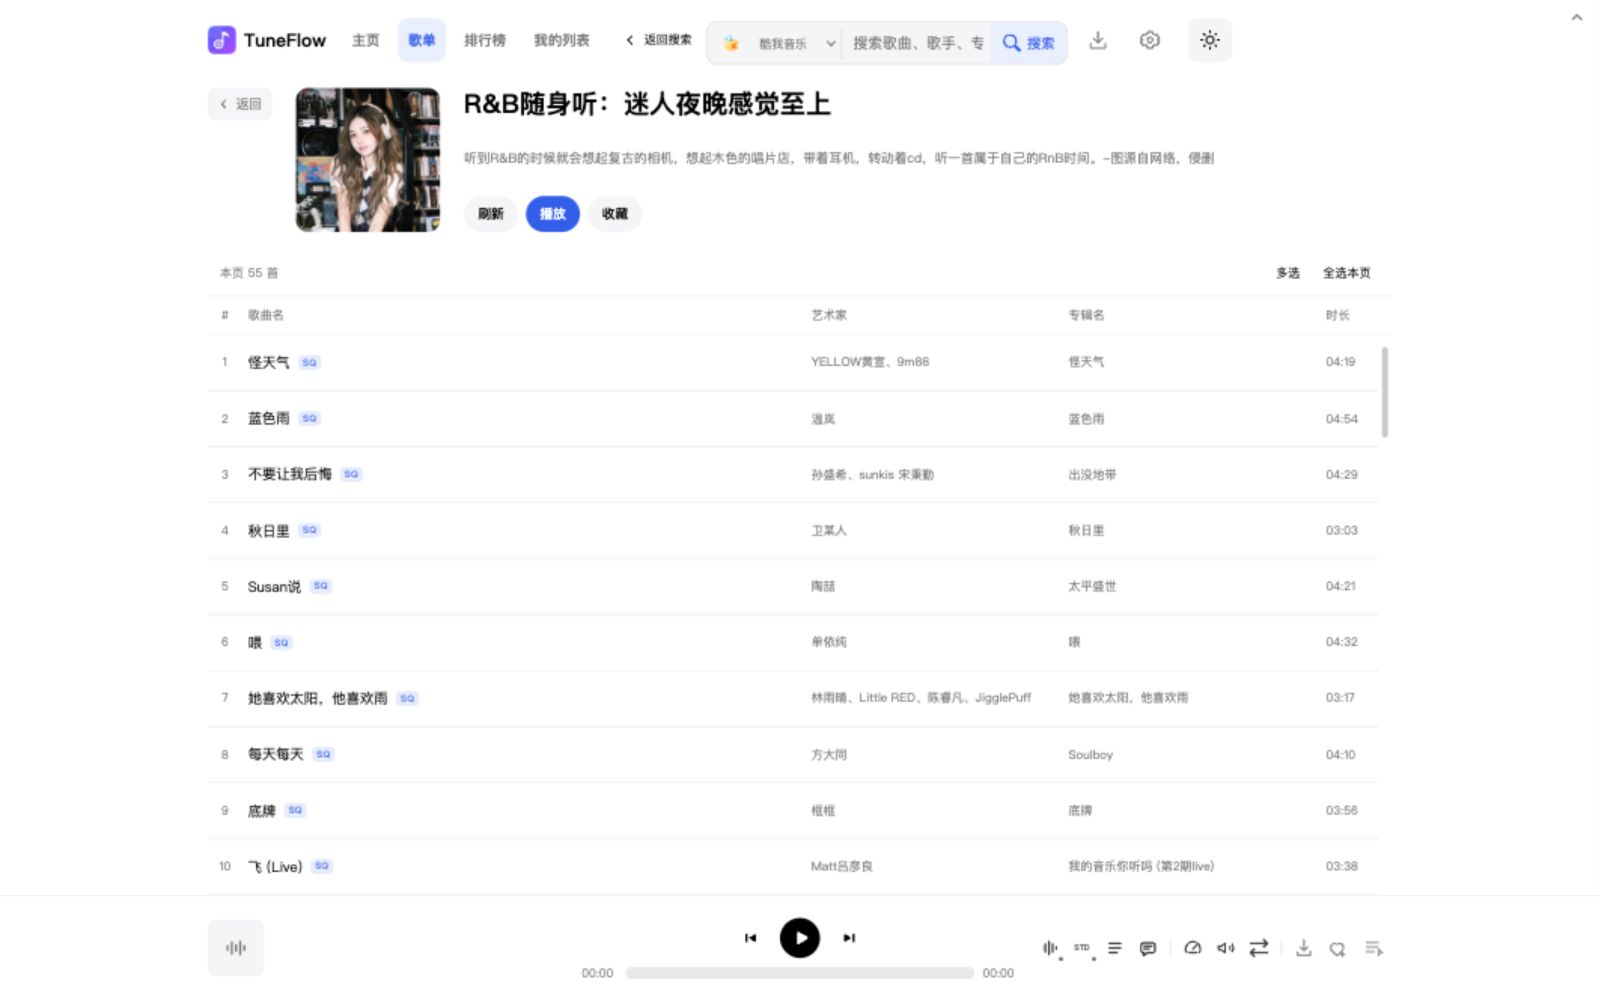
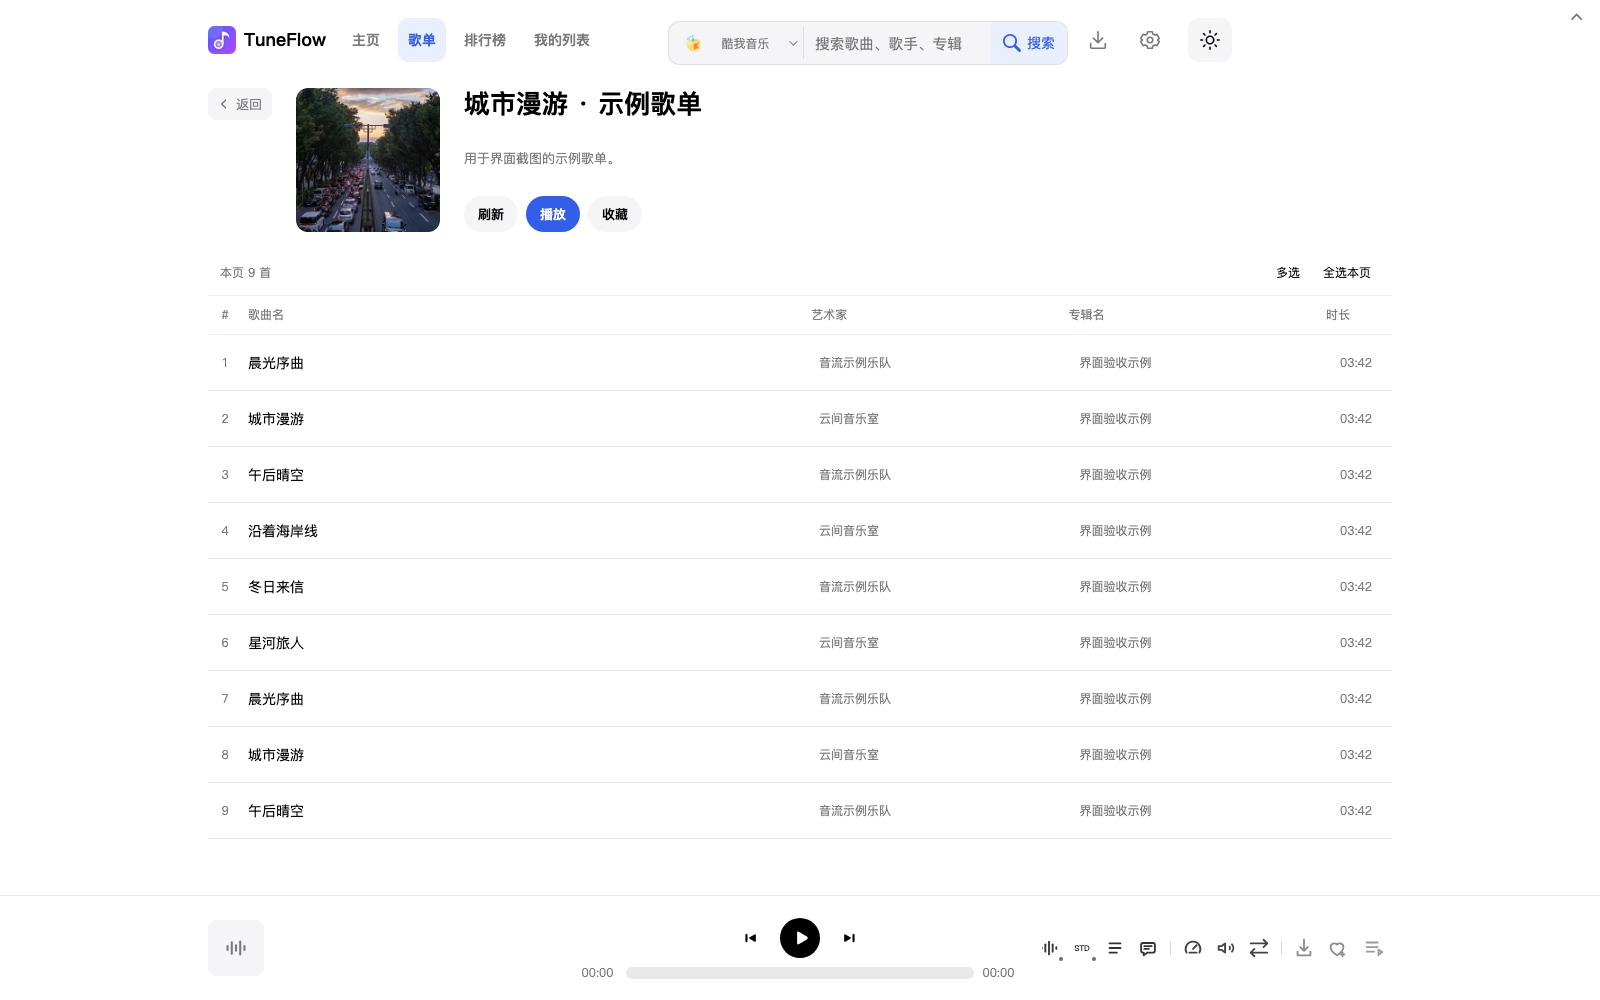
docs: refresh README with current UI screenshots

diff --git a/docs/images/README.md b/docs/images/README.md
@@ -1,21 +1,35 @@
 # 产品截图说明
 
-## 当前 Web 界面 · 2026-11-03
+## 当前 Web 界面 · 2026-11-10
 
 用于[产品首页](../../README.md)与[桌面/Web 说明](../../apps/player/README.md)。图片由实际运行的共享 Web 直接截取，尺寸为 1600 × 1000，未拼接页面或修改控件、文字。
 
 | 文件 | 页面与内容 |
 | --- | --- |
-| [web-home.jpg](web-home.jpg) | 首页、平台公开精选与今日推荐 |
-| [web-search.jpg](web-search.jpg) | 酷我音乐“孙露”歌曲搜索结果、歌曲信息与分页 |
+| [web-home.jpg](web-home.jpg) | 浅色首页、今日推荐与底部播放栏 |
+| [web-home-dark.jpg](web-home-dark.jpg) | 同一首页的深色外观 |
+| [web-search.jpg](web-search.jpg) | “晨光”聚合搜索示例、歌曲信息与多选操作 |
 | [web-discover.jpg](web-discover.jpg) | 歌单广场、平台选择、分类与排序 |
-| [web-playlist.jpg](web-playlist.jpg) | 平台公开歌单详情与歌曲列表 |
+| [web-playlist.jpg](web-playlist.jpg) | “城市漫游 · 示例歌单”详情与歌曲列表 |
 
-来源基于 `main` 的 `a80c060f`，包含随后对 4 个 UI 文件的修正：搜索结果与歌单页底部间距、专辑搜索间距、歌单来源下拉框。对应 2026-11-03 部署的工作区；截图展示的是包含这些修正的界面，不等同于 `a80c060f` 的原始界面或已发布客户端安装包。
+来源为 2026-11-10 当前工作区的 `apps/player` 源码，客户端包版本为 `2.13.14`。使用项目的 `build-config/renderer-web/webpack.config.prod.js` 配置重新构建，在本机 Chromium 中运行；不是独立 HTML 设计稿，也不代表已发布安装包的版本。当前工作区的 Git 元数据路径失效，无法可靠标注提交号。
 
-截图运行当前 Web 构建，通过本地预览连接真实服务，展示平台公开推荐、搜索结果、公开歌单及封面。未登录私人平台账号，不展示私人歌单、音乐库、访问地址或凭证。没有为截图添加歌曲、收藏、下载或播放历史。
+截图通过仅监听本机的隔离预览运行。曲目、艺术家、歌单和接口响应为内存中的示例数据，沿用项目的 UI 验证数据结构；封面使用仓库已有的设计预览照片。没有连接真实服务、登录平台账号或改动真实歌单、收藏、下载及播放历史。截图保留应用实际渲染的布局、控件和文字。
 
 展示内容不代表应用附带可用音源、音乐资源或第三方音乐授权，也不据此宣称已验收账号登录、实际播放、下载或桌面原生能力。
+
+### 示例封面署名
+
+以下署名沿用仓库已有设计预览的素材记录。照片仅作为封面占位，截图中的曲目与照片无实际发行关系；画面按应用封面容器裁切显示。
+
+| 照片与来源 | 作者 | 许可 |
+| --- | --- | --- |
+| [Herbert Lake](https://commons.wikimedia.org/wiki/File:Herbert_Lake_beim_Icefields_Parkway.jpg) | Florian Fuchs | [CC BY 3.0](https://creativecommons.org/licenses/by/3.0/) |
+| [表参道日落](https://commons.wikimedia.org/wiki/File:Omotesando_Avenue_at_sunset_from_pedestrian_bridge,_Jingumae,_Shibuya,_Tokyo.jpg) | gog.creator | [CC BY 4.0](https://creativecommons.org/licenses/by/4.0/) |
+| [Dülmen 野花](https://commons.wikimedia.org/wiki/File:D%C3%BClmen,_Brachliegendes_Feld_mit_Wildblumen_--_2021_--_9756.jpg) | Dietmar Rabich | [CC BY-SA 4.0](https://creativecommons.org/licenses/by-sa/4.0/) |
+| [三山岛航拍](https://commons.wikimedia.org/wiki/File:Aerial_View,_Sanshan_Island,_Hailing_Island,_Jiangcheng_District,_Yangjiang_City.jpg) | YikyuenG | [CC BY-SA 4.0](https://creativecommons.org/licenses/by-sa/4.0/) |
+| [Steinway 钢琴踏板](https://commons.wikimedia.org/wiki/File:Steinway_grand_piano_-_pedals.jpg) | Fanoftheworld | [CC0](https://creativecommons.org/publicdomain/zero/1.0/) |
+| [Ciadinat Sëlva 山间木屋](https://commons.wikimedia.org/wiki/File:Mountain_hut_Ciadinat_S%C3%ABlva.jpg) | Wolfgang Moroder | [CC BY-SA 3.0](https://creativecommons.org/licenses/by-sa/3.0/) |
 
 ## Android 历史截图 · 2026-10-26
 

diff --git a/README.md b/README.md
@@ -4,17 +4,27 @@
 
 [下载安装](https://github.com/appdev/TuneFlow/releases) · [部署 Web](#部署-web) · [问题反馈](https://github.com/appdev/TuneFlow/issues)
 
+## 新版界面预览
+
+桌面与 Web 使用同一套新版 UI：顶部集中放置首页、歌单、排行榜、我的列表和搜索入口，页面以封面、推荐卡片和歌曲列表展示音乐，底部播放栏让你在浏览时也能控制播放。
+
+![TuneFlow 新版 Web 首页：顶部导航、平台精选、今日推荐与底部播放栏](docs/images/web-home.jpg)
+
+从首页的“今日推荐”发现音乐，在“继续收听”回到当前歌曲，也可以随时切换浅色或深色外观。
+
+![TuneFlow 新版 Web 首页：深色外观](docs/images/web-home-dark.jpg)
+
+以下 Web 截图于 2026-11-10 从当前源码构建的界面截取，曲目、歌单和封面为展示用示例。Android 预览见[手机端介绍](#手机上也能继续听)。[截图版本与来源](docs/images/README.md)。
+
 ## 找到想听的音乐
 
 **搜索是 TuneFlow 的核心入口。** 输入歌曲、歌手或专辑名称，选择一个音乐平台搜索，也可以使用聚合搜索，在同一处查看多个平台的结果。歌曲、歌单和专辑分开展示，找到喜欢的内容后即可播放或收藏；专辑搜索的可用范围随平台而异。
 
-![搜索歌曲、切换平台，查看歌曲信息和音质](docs/images/web-search.jpg)
+![新版搜索：聚合搜索、歌曲信息与多选操作](docs/images/web-search.jpg)
 
 ## 发现下一首喜欢的歌
 
 不知道听什么时，从首页推荐开始。浏览平台精选、查看完整歌单，或换一批内容继续探索。登录受支持的音乐平台后，还可以使用相应的账号推荐。
-
-![TuneFlow 首页：平台精选与今日推荐](docs/images/web-home.jpg)
 
 歌单广场可以按平台、分类和排序浏览，排行榜则提供另一种发现热门音乐的方式。
 
@@ -102,7 +112,7 @@ docker run -d \
 
 ## 关于截图
 
-Web 图片于 **2026-11-03** 从当前工作区运行界面截取，包含本次部署的布局和下拉框修正，展示平台公开推荐、搜索与歌单内容。截图不代表应用提供音乐资源，也不代表各平台登录或播放均已验收。[截图版本与来源](docs/images/README.md)。
+Web 图片于 **2026-11-10** 从当前工作区源码构建并运行的新版界面截取，使用隔离的示例曲目与歌单，封面照片为展示素材，不包含私人账号数据。桌面使用相同页面，原生窗口和系统功能的外观因平台而异；Android 图片为历史版本，见上方标注。截图不代表应用提供音乐资源，也不代表各平台登录或播放均已验收。[截图版本、来源与封面署名](docs/images/README.md)。
 
 ## 开发与贡献
 

diff --git a/apps/player/README.md b/apps/player/README.md
@@ -4,13 +4,17 @@
 
 [产品首页](../../README.md) · [客户端下载安装](https://github.com/appdev/TuneFlow/releases) · [问题反馈](https://github.com/appdev/TuneFlow/issues) · [Android](../android/README.md)
 
-## 共享 Web 界面预览
+## 新版界面预览
 
-![共享 Vue Web 首页与推荐](../../docs/images/web-home.jpg)
+桌面与 Web 共用新版 Vue UI：顶部导航和搜索入口、以封面与推荐卡片为主的首页、歌曲列表，以及固定在底部的播放栏。浏览推荐、歌单或搜索结果时，都可以继续控制播放；外观支持浅色、深色与跟随系统。
 
-![共享 Vue Web 歌单列表](../../docs/images/web-playlist.jpg)
+![新版 Web 首页：顶部导航、推荐卡片与底部播放栏](../../docs/images/web-home.jpg)
 
-以上为 2026-11-03 的 Web 实际截图，展示平台公开推荐与歌单，不含私人账号数据。桌面使用相同页面，截图未覆盖桌面原生能力。[截图版本与来源](../../docs/images/README.md)。
+![新版 Web 首页：深色外观](../../docs/images/web-home-dark.jpg)
+
+![新版 Web 歌单详情与歌曲列表](../../docs/images/web-playlist.jpg)
+
+以上为 2026-11-10 从当前工作区源码构建并运行的 Web 界面截图，使用隔离的示例曲目、歌单与封面素材，不含私人账号数据。桌面使用相同页面，截图未覆盖桌面原生能力。[截图版本、来源与封面署名](../../docs/images/README.md)。
 
 ## 在产品中的位置
 
